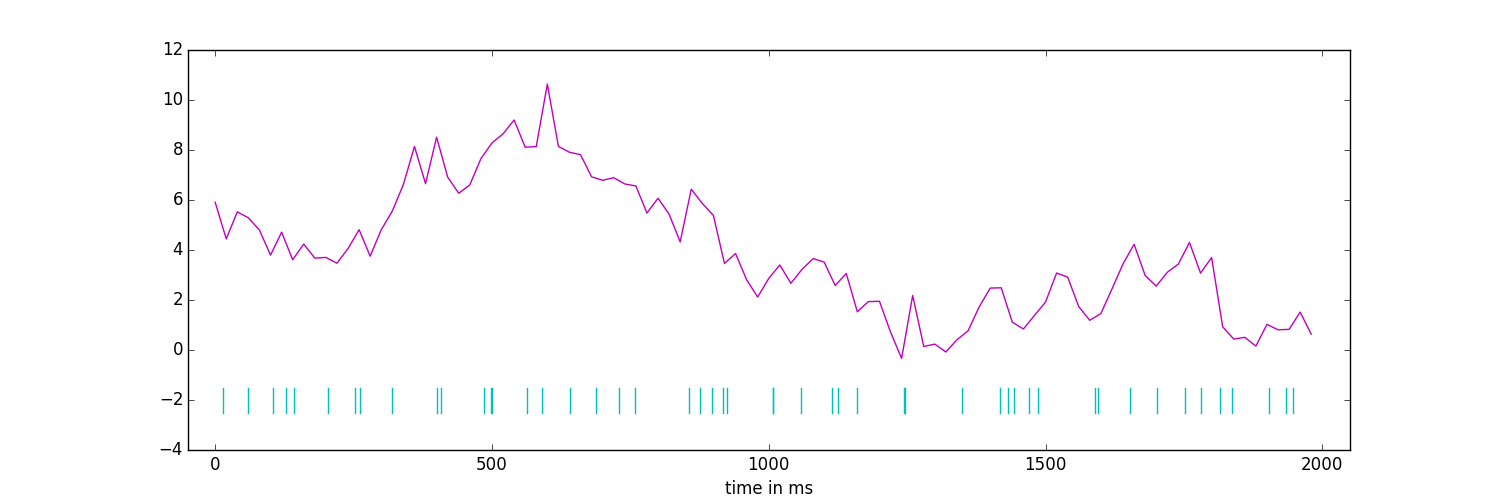
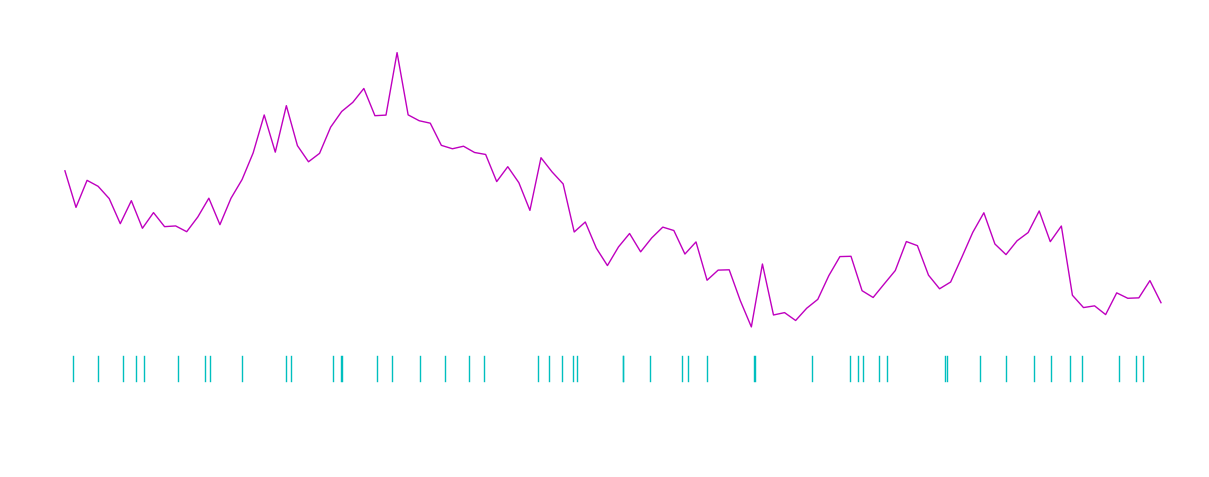
removed axes and bounding box from README images

diff --git a/example.py b/example.py
@@ -22,6 +22,11 @@ def main():
     plt.xlabel("time in ms")
     plt.xlim([-50, 2050])
     
+    # save the plot without axes
+    plt.axis('off')
+    plt.savefig("images/example.png", bbox_inches='tight')
+    plt.axis('on')
+    
     # show the complete plot
     plt.show()
 

diff --git a/ugly.py b/ugly.py
@@ -21,6 +21,11 @@ def main():
     plt.xlabel("time in ms")
     plt.xlim([-50, 2050])
     
+    # save the plot without axes
+    plt.axis('off')
+    plt.savefig("images/ugly.png", bbox_inches='tight')
+    plt.axis('on')
+    
     # show the complete plot
     plt.show()
 
